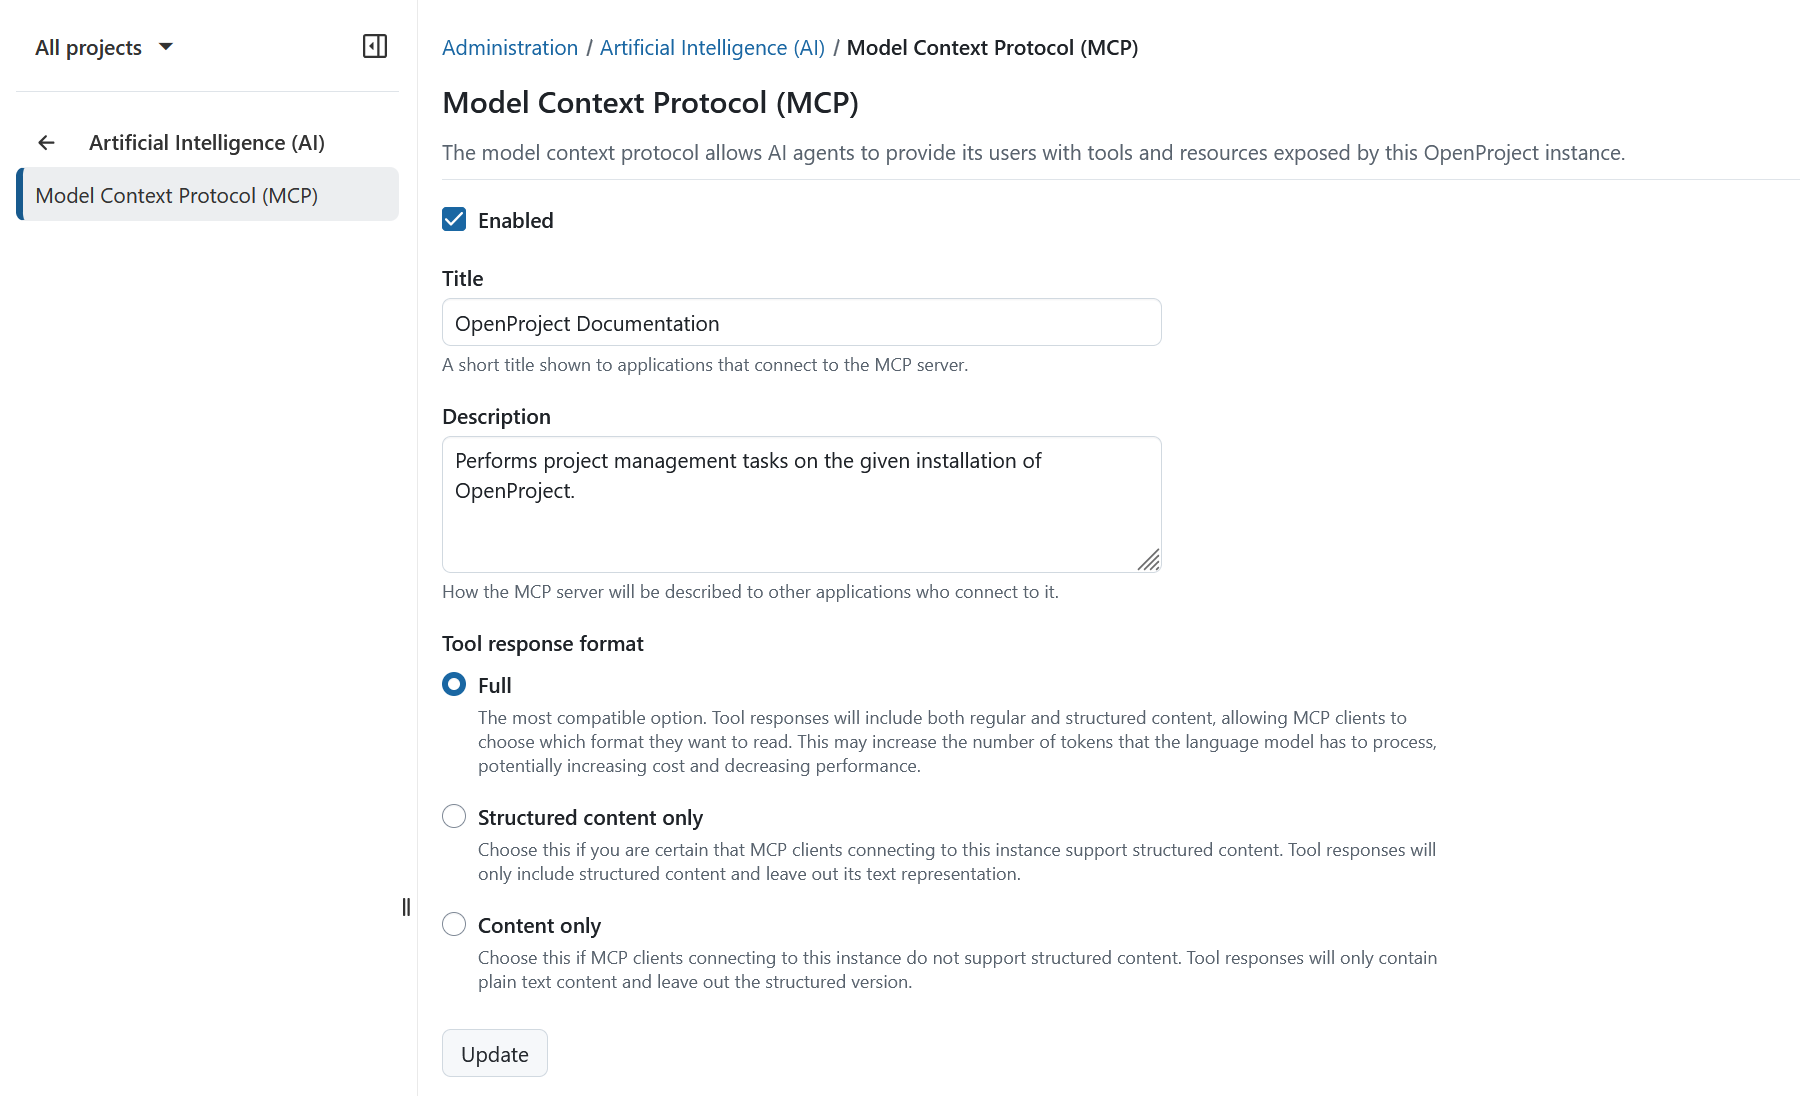
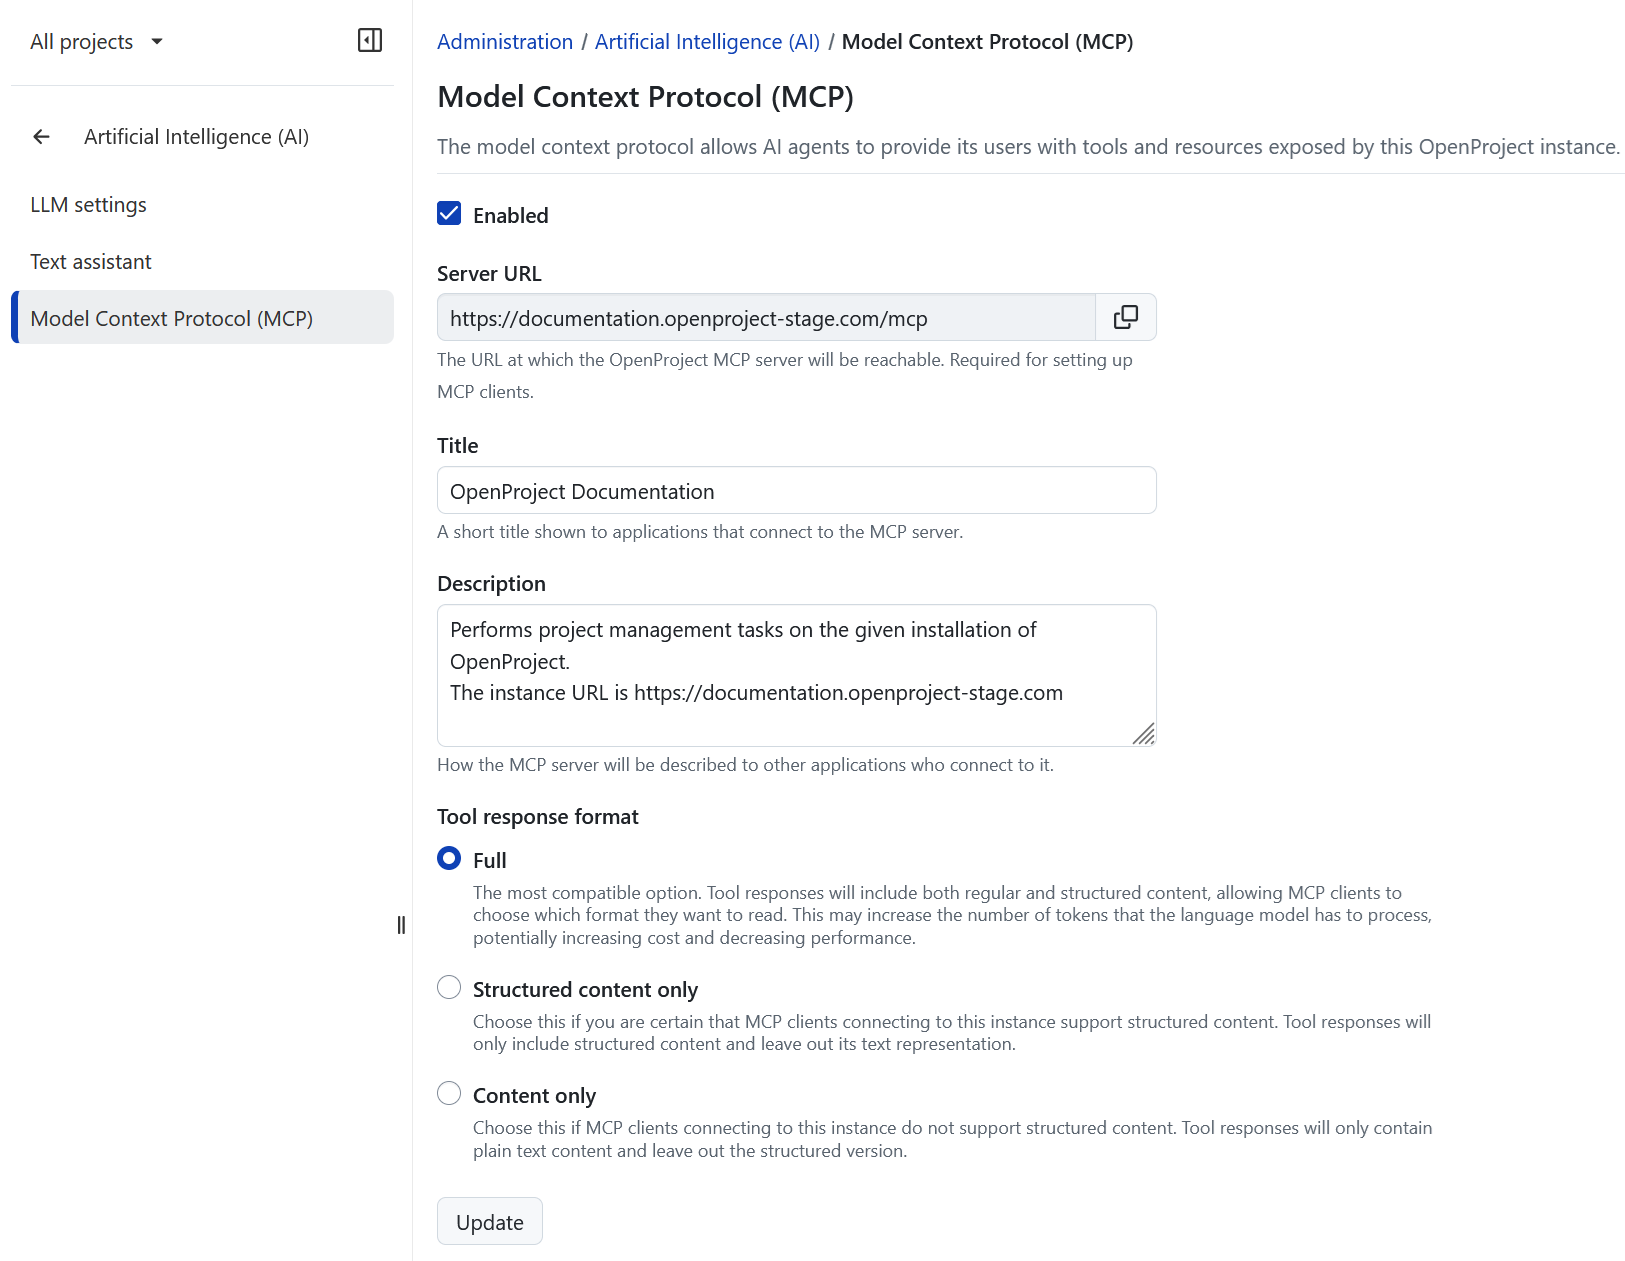
[DOCU-913] Document AI Text Assistant  https://community.openproject.org/wp/DOCU-913
[DOCU-913] Document AI Text Assistant

https://community.openproject.org/wp/DOCU-913

diff --git a/docs/system-admin-guide/ai/text-assistant/README.md b/docs/system-admin-guide/ai/text-assistant/README.md
@@ -3,12 +3,100 @@ sidebar_navigation:
   title: Text assistant
   priority: 900
 description: Configure the AI Text Assistant in OpenProject.
-keywords: AI, text assistant, writing assistance
+keywords: AI, text assistant, text actions, writing assistance
 ---
 
 # Text assistant
 
 [feature: text_assistant ]
 
-to be updated
+The text assistant gives users LLM-powered actions that help them write, organize, and review text directly in OpenProject, for example to proofread a description or turn notes into acceptance criteria. Administrators decide which actions are available and where, and can create their own actions with custom prompts and instructions.
 
+The text assistant requires a connection to an LLM server. Before you set up text actions, configure the connection under [LLM settings](../llm-settings/).
+
+## Manage text actions
+
+To manage the text actions, navigate to _Administration_ > _Artificial Intelligence (AI)_ > _Text assistant_.
+
+![Text assistant settings in OpenProject administration with the list of text actions](openproject_system_admin_guide_ai_text_assistant_actions.png)
+
+The **Actions** list shows all text actions. For each action, you see its name and its scope, for example **Everywhere**. You can:
+
+- **Turn individual actions on or off** with the toggle next to an action. Users only see actions that are turned on.
+- **Turn all actions on or off at once** with **Enable all** and **Disable all** in the list header.
+- **Change the order** by dragging an action by its handle on the left. Users see the actions in the same order in the editor.
+- **Edit or delete an action** via the **More** (**…**) menu next to it. Alternatively, click the name of an action to edit it.
+
+### Built-in text actions
+
+OpenProject comes with a set of built-in text actions that you can use right away:
+
+| Action | Scope | Purpose |
+| --- | --- | --- |
+| **Structure** | All work package types | Organizes the text according to the description template of the work package type. |
+| **Proofread** | Everywhere | Checks spelling and grammar. |
+| **Rewrite** | Everywhere | Improves the wording of the text. |
+| **Friendly** | Everywhere | Makes the tone friendlier. |
+| **Professional** | Everywhere | Makes the tone more professional. |
+| **Concise** | Everywhere | Shortens the text. |
+| **Summarize** | Everywhere | Captures the main points of the text. |
+| **Key points** | Everywhere | Presents the text as key points. |
+| **List** | Everywhere | Presents the text as a list. |
+| **Table** | Everywhere | Presents the text as a table. |
+| **Suggest subject** | All work package types | Suggests a subject for the work package. |
+
+The **Structure** action always uses the description template of the respective work package type. If a project uses a [type variant](../../manage-work-packages/work-package-types/) with its own description template, the action uses that template. You do not need to create separate actions for different types or projects.
+
+You can edit the built-in actions, for example to change their prompt or scope, and turn off the ones you do not need.
+
+### Create a text action
+
+To create a new text action, click **+ Action** and fill in the form:
+
+- **Label:** The name of the action. Users see this name in the editor.
+- **Prompt:** The instructions the LLM follows when a user runs the action, for example what to do with the text and which rules to follow.
+- **Scope:** Where the action is available:
+  - **Everywhere:** In all rich text editors, including comments, wiki pages, and custom fields.
+  - **All work package types:** Only in work package descriptions.
+  - **Specific work package types:** Only in the descriptions of the selected work package types. All variants of a selected type are included automatically.
+
+Click **Create** to add the action to the list.
+
+![Form to create a new text action for the text assistant in OpenProject administration](openproject_system_admin_guide_ai_text_assistant_new_action.png)
+
+> [!TIP]
+> Write the prompt as clear instructions, for example as a list of rules. Describe the expected result and what the LLM should not do, such as inventing requirements that are not included in the original text.
+
+### Edit or delete a text action
+
+To edit a text action, click its name or select **Edit** in the **More** (**…**) menu. Change the label, prompt, or scope and click **Save**.
+
+To delete a text action, select **Delete** in the **More** (**…**) menu.
+
+## Use the text assistant
+
+Users can run text actions in OpenProject's rich text editors. Every editor in which at least one action is available shows an **Assistant** button in the toolbar:
+
+- Click the main part of the button to run the action you used last.
+- Click the arrow to see all available actions and select one.
+
+Which actions are listed depends on where you write:
+
+- In **work package descriptions**, you see all actions that can run for that work package, including actions limited to work packages or to specific work package types.
+- In **other editors**, such as comments, wiki pages, forums, and meetings, you only see actions that are available **Everywhere**.
+
+The **Assistant** button is not shown if no action is available, if no LLM connection is configured, or in editors you are not allowed to edit.
+
+### Review the result
+
+When you run an action, the result appears in a popover. The popover shows the name of the action and which text is used as input, for example the selected text or the whole work package description. While the result is being generated, you can stop the action with **Cancel**.
+
+When the result is ready, you can:
+
+- **Replace:** Apply the result. If you selected text, only the selected text is replaced. Otherwise, the whole text in the editor is replaced.
+- **Copy:** Copy the result to your clipboard.
+- **Discard:** Close the popover without changing your text.
+
+You can drag the popover to another position, for example to see the text underneath. If the action fails, the popover shows an error message.
+
+![Result of a text action in a popover next to a work package description in OpenProject](openproject_user_guide_ai_text_assistant_result.png)

diff --git a/docs/system-admin-guide/ai/llm-settings/README.md b/docs/system-admin-guide/ai/llm-settings/README.md
@@ -1,0 +1,87 @@
+---
+sidebar_navigation:
+  title: LLM settings
+  priority: 950
+description: Connect OpenProject to an LLM server and configure the models used by AI features.
+keywords: AI, LLM, large language model, models, health status
+
+---
+
+# LLM settings
+
+Under _Administration_ > _Artificial Intelligence (AI)_ > _LLM settings_, you connect OpenProject to an LLM server and review the models it offers. The page has three tabs: **Connection**, **Models**, and **Feature configuration**.
+
+## Connection
+
+![Connection tab of the LLM settings in OpenProject administration with the server settings and the health status](openproject_system_admin_guide_ai_llm_settings_connection.png)
+
+On the **Connection** tab, you configure the server that OpenProject uses for its AI features:
+
+- **Enable LLMs for this instance:** Turns all LLM-backed AI features on or off. When turned off, these features stop working, but the connection settings are kept. You can only turn this on after a connection has been configured.
+- **API format:** The API the server speaks. Choose **OpenAI** for most gateways and self-hosted servers.
+- **Host URL:** The base URL of the server, including the API version, for example `https://example.com/v1`. Enter it exactly as your provider documents it.
+- **API key:** The key OpenProject uses to authenticate with the server. The key is optional, since self-hosted servers may not require one. Once a key is stored, it is no longer shown. Leave the field blank to keep the stored key, or enter a new one to replace it.
+
+Click **Save** to save the settings. OpenProject then contacts the server to check the connection and load the list of available models. If the server cannot be reached or rejects the API key, the settings are not saved, and the error is shown below the respective field.
+
+### Health status
+
+OpenProject regularly checks whether the connection to the LLM server works. The **Health status** panel next to the settings shows the result of the latest check and when it was run. Scheduled checks run without sending a request to a model. To include such a request, click **Run checks now**.
+
+Click **Open full health report** to see all checks in detail. The report shows how many checks passed, returned a warning, or failed, and lists each check with its result, grouped into categories such as:
+
+- **Configuration**, for example whether AI features are switched on, the endpoint is configured, and an API key is stored
+- **Server**, for example whether the server can be reached and accepts the API key
+
+In the top right corner, you can **Run checks** again or **Download report**.
+
+![Full health status report of the LLM connection in OpenProject administration](openproject_system_admin_guide_ai_llm_health_status.png)
+
+> [!TIP]
+> If you are experiencing issues with the LLM connection, download the health status report and include it in your support request. This will help us diagnose the problem more efficiently.
+
+### Remove the API key or disconnect
+
+Use the **More** (**…**) menu in the top right corner of the page to:
+
+- **Remove API key:** OpenProject stops sending a key with its requests to the server.
+- **Disconnect:** OpenProject stops using the LLM server. The server settings, the model list, and the model chosen for each feature are kept. Only the stored API key is removed.
+
+![More menu of the LLM settings in OpenProject administration with the options to remove the API key and to disconnect](openproject_system_admin_guide_ai_llm_settings_more_menu.png)
+
+Both options ask for confirmation.
+
+## Models
+
+![Models tab of the LLM settings in OpenProject administration with the default chat model and the list of available models](openproject_system_admin_guide_ai_llm_settings_models.png)
+
+The **Models** tab shows the models offered by the connected server.
+
+Under **Default models**, choose the **Default chat model**. It is used by all AI features that do not choose a model themselves. Embedding models cannot be selected as the default chat model. Click **Save** to apply your choice.
+
+Below, the list shows all available models with their **Type**, **Context window**, and **Source**. Depending on your server, the list can be long:
+
+- Use **Filter models** to find a model by its name.
+- Click **Refresh models** to load the current list from the server. Models you added manually are kept.
+- Click **+ Model** to add a model manually, for example if your server does not publish a model list. Enter the model name exactly as the server expects it.
+
+### Edit a model
+
+To change how OpenProject uses a model, click the **Edit** (pencil) icon next to it. You can set the following options:
+
+- **Display name:** An optional friendly name that is shown instead of the model ID.
+- **Context window:** Leave this blank to use the value published for the model, which is shown below the field. Enter a value only if you want to override it.
+- **Model type:** **Chat model** or **Embedding model**. Chat models answer requests. Embedding models turn text into vectors for search.
+- **Tool calling**, **Structured output**, **Vision**, and **Reasoning:** By default, each capability is inherited from the server, and the value reported by the server is shown in brackets. You can override it if the server reports a capability incorrectly.
+
+Click **Save** to apply your changes.
+
+![Page to edit a model in the LLM settings of OpenProject administration](openproject_system_admin_guide_ai_llm_settings_edit_model.png)
+
+## Feature configuration
+
+![Feature configuration tab of the LLM settings in OpenProject administration with the model selection for the text assistant](openproject_system_admin_guide_ai_llm_settings_feature_configuration.png)
+
+On the **Feature configuration** tab, you choose which model each AI feature uses. Currently, this applies to the [text assistant](../text-assistant/).
+
+For each feature, select either **Use the default**, which uses the default chat model from the **Models** tab, or a specific model. Click **Save** to apply your choice.

diff --git a/docs/system-admin-guide/ai/mcp-server/README.md b/docs/system-admin-guide/ai/mcp-server/README.md
@@ -3,7 +3,7 @@ sidebar_navigation:
   title: MCP Server
   priority: 800
 description: Integrate AI agents with your OpenProject instance through MCP.
-keywords: ai llm mcp
+keywords: ai, llm, mcp, artifical intelligence, text asisstant
 ---
 # MCP Server
 
@@ -65,14 +65,13 @@ Here you can enable or disable the entire MCP server and change the MCP server t
 
 The available response format options are:
 
-- **Full**: The most compatible option. Tool responses will include both regular and  structured content, allowing MCP clients to choose which format they  want to read. This may increase the number of tokens that the language  model has to process, potentially increasing cost and decreasing  performance. 
-- **Structured content only**: Choose this if you are certain that MCP clients connecting to this instance  support structured content. Tool responses will only include structured  content and leave out its text representation. 
-- **Content only**: Choose this if MCP clients connecting to this instance do not support  structured content. Tool responses will only contain plain text content  and leave out the structured version. 
+- **Full**: The most compatible option. Tool responses will include both regular and structured content, allowing MCP clients to choose which format they want to read. This may increase the number of tokens that the language model has to process, potentially increasing cost and decreasing performance. 
+- **Structured content only**: Choose this if you are certain that MCP clients connecting to this instance support structured content. Tool responses will only include structured content and leave out its text representation. 
+- **Content only**: Choose this if MCP clients connecting to this instance do not support structured content. Tool responses will only contain plain text content and leave out the structured version. 
 
 ![Model context protocol (MCP) settings under OpenProject administration](openproject_system_guide_new_mcp.png)
 
 Individual tools and resources can also be enabled or disabled. Their titles and descriptions can be customized. This can be useful if you want to introduce alternative terminology for certain entities or limit the functionality available through MCP.
-want to introduce alternative terminology for certain entities or limit the functionality available through MCP.
 
 For example, if work packages are called "work items" in your day-to-day language, you can rename **Search work packages** to **Search work
 items**. This helps users understand what the tool does and gives the language model an additional cue that "work items" is an alias for work
@@ -82,8 +81,6 @@ The lists below show the tools and resources provided by OpenProject by default.
 been customized by an administrator.
 
 ![MCP tools section settings in OpenProject administration](openproject_system_guide_new_mcp_tools.png)
-
-
 
 ## Tools
 
@@ -137,7 +134,11 @@ MCP resources allow connected clients to access OpenProject data. Each resource 
 | `version` | Work Package Version | Access work package versions of this OpenProject instance. |
 | `work_package` | Work Package | Access work packages of this OpenProject instance. |
 
-### Working with work packages
+## Working with MCP
+
+Actions performed through MCP use the permissions of the authenticated OpenProject user. MCP clients can only see and change what this user is allowed to see and change in OpenProject.
+
+### Work packages
 
 #### Work package IDs
 
@@ -169,7 +170,7 @@ Before creating or updating a work package, an MCP client can call `get_work_pac
 
 The response includes:
 
--   The fields shown in the form configuration of the type, and which of them are required
+-   The fields shown in the [form](../../manage-work-packages/work-package-forms/) of the type, and which of them are required
 -   The allowed values, for example the statuses the authenticated user can select
 -   The default values of a new work package, such as the description template of the type, or the current values of an existing work package
 
@@ -184,5 +185,3 @@ The relevant tools are:
 -   `create_time_entry`
 -   `update_time_entry`
 -   `delete_time_entry`
-
-Actions performed through MCP use the permissions of the authenticated OpenProject user.

diff --git a/docs/system-admin-guide/ai/README.md b/docs/system-admin-guide/ai/README.md
@@ -1,11 +1,33 @@
 ---
 sidebar_navigation:
-  title: Artificial intelligence
+  title: Artificial Intelligence
   priority: 925
 description: Configure artificial intelligence integrations and text assistance in OpenProject.
-keywords: AI, artificial intelligence, MCP Server, text assistant
+keywords: AI, artificial intelligence, LLM, MCP Server, text assistant
 ---
 
 # AI in OpenProject
 
-to be updated 
+OpenProject uses artificial intelligence to make everyday project work easier, while keeping people in control. AI features in OpenProject suggest, but never decide: you review every result and choose whether to use it. Organizations also decide which AI infrastructure they connect, so they can choose a setup that meets their requirements for data protection and digital sovereignty.
+
+OpenProject currently offers two ways of working with AI:
+
+- The **[text assistant](text-assistant/)** helps users write, improve, and structure text directly in OpenProject's editors, for example to proofread a comment or turn rough notes into a structured work package description. The text assistant is an Enterprise add-on and runs on an LLM server that your organization connects.
+- The **[MCP Server](mcp-server/)** allows external AI assistants and agents to access OpenProject, for example to search or create work packages. The MCP Server is available in all editions.
+
+> [!CAUTION]
+> Always review AI-generated results before using them. AI can introduce assumptions, leave out relevant information, or change the meaning of the original text. It supports your work, but it does not replace human judgment.
+
+Learn more about our approach to AI on the [AI in OpenProject](https://www.openproject.org/ai/) website.
+
+## AI administration
+
+Under _Administration_ > _Artificial Intelligence (AI)_, administrators configure how OpenProject works with artificial intelligence. The section contains three areas:
+
+| Topic                                       | Content                                                      |
+| ------------------------------------------- | ------------------------------------------------------------ |
+| [LLM settings](llm-settings/)               | Connect OpenProject to an LLM server, manage the available models, and choose which model each AI feature uses. |
+| [Text assistant](text-assistant/)           | Manage the text actions that users can apply in the editor, such as proofreading, rewriting, and structuring. |
+| [Model Context Protocol (MCP)](mcp-server/) | Allow external AI assistants to access OpenProject through the MCP Server. |
+
+AI features that run inside OpenProject, such as the text assistant, need a connection to an LLM server. The MCP Server does not need one, because the AI assistant runs outside OpenProject.
